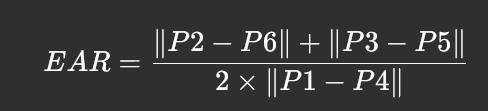
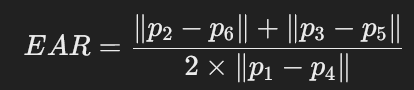
changed some logic

Changed region(s): [[0.058, 0.1556, 0.9855, 0.9111]]

diff --git a/code/frt.py b/code/frt.py
@@ -4,6 +4,10 @@ from deepfake_detection import (
     analyze_reflections,
     FACE_CENTER_LANDMARK
 )
+from blink_detection import (
+    check_double_blink,
+    check_eye_movement_during_blink,
+)
 import cv2
 import dlib
 import numpy as np
@@ -17,8 +21,6 @@ def main(demo_mode=False, security_mode=False):
     BASELINE_FRAMES = 30
     SMOOTHING_WINDOW = 2
     BLINK_COOLDOWN = 1
-    DOUBLE_BLINK_THRESHOLD = 0.8
-
 
     blink_count = 0
     blink_active = False
@@ -28,13 +30,11 @@ def main(demo_mode=False, security_mode=False):
     cooldown_counter = 0
     blink_timestamps = []
 
-
     def calculate_ear(eye):
         A = distance.euclidean(eye[1], eye[5])
         B = distance.euclidean(eye[2], eye[4])
         C = distance.euclidean(eye[0], eye[3])
         return (A + B) / (2.0 * C)
-
 
     # I won't be using fixed ear_threshold, because otherwise it would not be robust to individual differences in
     # eye shape and size. Instead, I'll be calculating dynamic threshold.
@@ -51,7 +51,6 @@ def main(demo_mode=False, security_mode=False):
             frame_count += 1
         return baseline_ear
 
-
     # smoothing is necessary because EAR calculation can be noisy due to
     # small variations in facial landmarks.
     def smooth_ear(ear):
@@ -59,7 +58,6 @@ def main(demo_mode=False, security_mode=False):
         if len(ear_history) > SMOOTHING_WINDOW:
             ear_history.pop(0)
         return np.mean(ear_history)
-
 
     detector = dlib.get_frontal_face_detector()
     shape_predictor = dlib.shape_predictor("../dat/shape_predictor_68_face_landmarks.dat")
@@ -97,8 +95,8 @@ def main(demo_mode=False, security_mode=False):
             avg_ear = smooth_ear((left_ear + right_ear) / 2.0)
             print(f"[METRICS] Frame {frame_count} - Left EAR: {left_ear:.4f}, Right EAR: {right_ear:.4f}, Avg: {avg_ear:.4f}")
 
-            left_eye_movement = check_eye_movement(left_eye, face_center, blink_active)
-            right_eye_movement = check_eye_movement(right_eye, face_center, blink_active)
+            left_eye_movement = check_eye_movement_during_blink(left_eye, face_center, blink_active, check_eye_movement)
+            right_eye_movement = check_eye_movement_during_blink(right_eye, face_center, blink_active, check_eye_movement)
 
             if frame_count < BASELINE_FRAMES:
                 baseline_ear = calculate_baseline_ear(avg_ear)
@@ -109,25 +107,18 @@ def main(demo_mode=False, security_mode=False):
                         blink_active = True
                         blink_timestamps.append(time.time())
                         print(f"[BLINK] Blink started at {time.strftime('%H:%M:%S')}")
-                else:
-                    if blink_active:
-                        duration = time.time() - blink_timestamps[-1]
-                        blink_count += 1
-                        blink_active = False
-                        cooldown_counter = BLINK_COOLDOWN
-                        print(f"[BLINK] Blink completed (duration: {duration:.2f}s, total: {blink_count})")
+                elif avg_ear >= dynamic_threshold and blink_active:
+                    blink_active = False
+                    blink_count += 1
+                    cooldown_counter = BLINK_COOLDOWN
+                    duration = time.time() - blink_timestamps[-1]
+                    print(f"[BLINK] Blink completed (duration: {duration:.2f}s, total: {blink_count})")
 
-            # double blink
-            if len(blink_timestamps) >= 2:
-                time_diff = blink_timestamps[-1] - blink_timestamps[-2]
-                if 0.3 <= time_diff <= DOUBLE_BLINK_THRESHOLD:
-                    print(f"[BLINK] Double blink detected! Interval: {time_diff:.2f}s")
+                if check_double_blink(blink_timestamps):
+                    print(f"[BLINK] Double blink detected!")
                     blink_timestamps.clear()
-                    # reset state
                     blink_active = False
                     cooldown_counter = BLINK_COOLDOWN
-                    print("[BLINK] Reset blink state after double blink detection")
-                    blink_timestamps.clear()
 
             left_eye_np = np.array(left_eye)
             right_eye_np = np.array(right_eye)

diff --git a/code/blink_detection.py b/code/blink_detection.py
@@ -1,0 +1,37 @@
+import numpy as np
+import time
+
+DOUBLE_BLINK_THRESHOLD = 0.8
+
+
+def calculate_dynamic_blink_threshold(blink_timestamps):
+    if len(blink_timestamps) < 2:
+        return DOUBLE_BLINK_THRESHOLD
+
+    time_diffs = np.diff(blink_timestamps)
+    avg_blink_interval = np.mean(time_diffs)
+    dynamic_threshold = avg_blink_interval * 1.5
+    return max(DOUBLE_BLINK_THRESHOLD, dynamic_threshold)
+
+
+def check_double_blink(blink_timestamps):
+    if len(blink_timestamps) < 2:
+        return False
+
+    time_diff = blink_timestamps[-1] - blink_timestamps[-2]
+    dynamic_threshold = calculate_dynamic_blink_threshold(blink_timestamps)
+
+    if 0.3 <= time_diff <= dynamic_threshold:
+        print(f"[BLINK] Double blink detected! Interval: {time_diff:.2f}s")
+        return True
+    return False
+
+
+def check_eye_movement_during_blink(eye_landmarks, face_center, is_blinking=False, check_eye_movement=None):
+    if is_blinking:
+        return False  # skip during the blink
+
+    if check_eye_movement is None:
+        raise ValueError("check_eye_movement function must be provided")
+
+    return check_eye_movement(eye_landmarks, face_center, is_blinking)

diff --git a/README.md b/README.md
@@ -1,6 +1,6 @@
 # Blink Detection Using Eye Aspect Ratio (EAR)
 
-This project implements a blink detection system using the Eye Aspect Ratio (EAR) and a dynamic threshold based on a baseline EAR. The system is designed to be robust to individual differences in eye shape and size, using facial landmarks to detect blinks in real time.
+This project implements a robust blink detection system using the Eye Aspect Ratio (EAR) with a dynamic threshold based on a baseline EAR. The system is designed to adapt to individual differences in eye shape and size while also incorporating additional checks to detect deepfake artifacts.
 
 ## Table of Contents
 
@@ -13,128 +13,108 @@ This project implements a blink detection system using the Eye Aspect Ratio (EAR
   - [Eye Movement Detection](#eye-movement-detection)
   - [EAR Consistency Check](#ear-consistency-check)
   - [Reflection Analysis](#reflection-analysis)
+  - [Double Blink Detection](#double-blink-detection)
+- [Used Formulas](#used-formulas)
 - [Code Overview](#code-overview)
 - [Key Variables](#key-variables)
 - [Usage](#usage)
 - [Dependencies](#dependencies)
+- [Changelog](#changelog)
 
 ## How It Works
 
 ### Eye Aspect Ratio (EAR)
+The EAR is a metric used to determine whether the eyes are open or closed. It is calculated as:
 
-The EAR is a metric used to determine whether the eyes are open or closed. It is calculated using the vertical and horizontal distances between specific facial landmarks around the eyes.
-
-Formula:
 
 ![img.png](img.png)
 
-Where:
 
-- \( P1, P2, P3, P4, P5, P6 \) are the facial landmarks around the eye.
-- \( \|A - B\| \) represents the Euclidean distance between two points.
-
-The EAR is calculated for both the left and right eyes, and the average EAR is used for blink detection.
+where `p1` to `p6` are the eye landmark points.
 
 ### Baseline EAR
-
-The baseline EAR represents the average EAR when the eyes are open and not blinking. It is calculated during the first `BASELINE_FRAMES` (e.g., 30 frames).
-
-![img_1.png](img_1.png)
-
-This running average smooths out small variations and establishes a reliable baseline EAR.
+To account for individual differences in eye structure, the system calculates an initial baseline EAR over the first few frames. The EAR value is updated dynamically to create a more adaptive system.
 
 ### Dynamic Threshold
-
-The dynamic threshold determines whether a blink has occurred. It is calculated as a percentage of the baseline EAR:
-
-![img_2.png](img_2.png)
-
-If the average EAR drops below 85% of the baseline EAR, a blink is detected.
+Rather than using a fixed threshold, the system determines a dynamic threshold based on the baseline EAR. A blink is detected when the EAR value drops below 75% of the baseline.
 
 ### Smoothing EAR Values
-
-The EAR values can fluctuate due to small facial movements. To mitigate noise, the EAR values are smoothed over a small window of frames.
-
-Smoothing formula:
-
-![img_3.png](img_3.png)
-
-Where `EAR_history` is a list containing the last few EAR values.
+Since facial landmark detection can introduce noise, the EAR values are smoothed using a small moving average window.
 
 ### Cooldown Period
-
-A cooldown period prevents multiple detections for a single blink. After detecting a blink, the system waits for a short period before registering another blink.
+To prevent false positive blinks from being registered in quick succession, a cooldown period is implemented. After detecting a blink, the system enforces a short delay before allowing another blink to be counted.
 
 ### Eye Movement Detection
-
-To account for eye movements, we track the center of the eye over time. The eye movement detection method calculates the variance in eye position over recent frames:
-
-![img_4.png](img_4.png)
-
-If the normalized variance exceeds a threshold (e.g., 0.15), significant movement is detected.
+Using eye landmarks and the nose landmark as a reference, the system tracks eye movements across frames. If unusual eye movement patterns are detected, the system flags it as a potential anomaly.
 
 ### EAR Consistency Check
-
-A consistency check ensures that sudden, irregular EAR changes do not lead to false positives. It compares differences between recent EAR values:
-
-![img_5.png](img_5.png)
-
-If the largest EAR change exceeds a predefined threshold (e.g., 0.15), a blink is flagged.
+An abrupt change in EAR values during a blink is considered suspicious. The system monitors the rate of change and flags unnatural shifts in EAR.
 
 ### Reflection Analysis
+Deepfake videos often struggle with realistic eye reflections. The system extracts the eye region and analyzes light reflections. If no reflections are detected, the system raises an alert.
 
-To check for potential obstructions (e.g., glare or reflections), the eye region is processed with thresholding:
+### Double Blink Detection
+A double blink is detected when two consecutive blinks occur within a dynamically calculated time window. This helps detect natural human behavior and adds another layer of analysis.
 
-![img_6.png](img_6.png)
+## Used Formulas
 
-If reflections are minimal, the detection remains valid.
+### Moving Average Smoothing
+![img_3.png](img_3.png)
+
+### Dynamic Blink Threshold
+![img_2.png](img_2.png)
+
+### EAR Change Detection
+![img_1.png](img_1.png)
 
 ## Code Overview
 
-The code consists of the following key components:
-
-- **EAR Calculation:** `calculate_ear` computes the EAR for a given eye.
-- **Baseline EAR Calculation:** `calculate_baseline_ear` establishes the baseline EAR over the first 30 frames.
-- **Smoothing:** `smooth_ear` averages the last few EAR values to reduce noise.
-- **Blink Detection:** The main loop captures video frames, detects faces, calculates the EAR, and checks against the dynamic threshold.
-- **Eye Movement Detection:** `check_eye_movement` tracks eye position history and detects significant movement.
-- **EAR Consistency Check:** `check_ear_consistency` prevents erratic EAR changes from falsely triggering blinks.
-- **Reflection Analysis:** `analyze_reflections` checks for excessive light reflections in the eye region.
-- **Display:** The system overlays the EAR values, blink count, baseline EAR, and dynamic threshold on the video feed.
+- The system captures video frames using OpenCV and detects faces using `dlib`.
+- Facial landmarks are extracted and used to calculate the EAR.
+- Blinks are detected based on dynamic thresholds.
+- Additional deepfake detection checks are performed.
+- The user interface overlays real-time feedback on the video.
 
 ## Key Variables
 
-- `baseline_ear`: The average EAR when the eyes are open.
-- `dynamic_threshold`: 85% of the baseline EAR, used to detect blinks.
-- `ear_history`: A list of the last 3 EAR values for smoothing.
-- `cooldown_counter`: Prevents multiple detections for a single blink.
-- `eye_position_history`: Tracks recent eye positions to monitor movement.
-- `EYE_MOVEMENT_THRESHOLD`: Defines the threshold for significant eye movement.
-- `ear_history_blink`: Stores recent EAR values for consistency checks.
-- `EAR_CHANGE_THRESHOLD`: Defines the threshold for EAR consistency validation.
+| Variable               | Description |
+|------------------------|-------------|
+| `BASELINE_FRAMES`      | Number of frames to compute the initial EAR baseline |
+| `BLINK_COOLDOWN`       | Time before another blink can be counted |
+| `SMOOTHING_WINDOW`     | Number of frames used to smooth EAR values |
+| `EAR_CHANGE_THRESHOLD` | Threshold for detecting abrupt EAR changes |
+| `VAR_THRESHOLD`        | Threshold for detecting unnatural eye movements |
+| `DOUBLE_BLINK_THRESHOLD` | Max time difference between two blinks for a double blink detection |
+| `REFLECTION_THRESHOLD`  | Minimum brightness level for valid eye reflections |
 
 ## Usage
 
-1. Install the required dependencies:
-
-```bash
-pip install opencv-python dlib scipy numpy
-```
-
-2. Download the `shape_predictor_68_face_landmarks.dat` file from dlib's website and place it in the project directory.
-
-3. Run the script:
-
-```bash
-python blink_detection.py
-```
-
-4. Follow the on-screen instructions to calculate the baseline EAR and start detecting blinks.
+1. Install dependencies using:
+   ```
+   pip install -r requirements.txt
+   ```
+2. Run the script:
+   ```
+   python blink_detection.py
+   ```
+3. Look at the camera while the system calculates the baseline EAR.
+4. The system will detect blinks and analyze eye behavior in real-time.
+5. Press `q` to exit the application.
 
 ## Dependencies
 
-- `opencv-python`: For video capture and frame processing.
-- `dlib`: For face detection and facial landmark detection.
-- `scipy`: For distance calculations.
-- `numpy`: For numerical operations and EAR smoothing.
+- `OpenCV`
+- `dlib`
+- `numpy`
+- `scipy`
+
+## Changelog
+
+### v1.1
+- Added `REFLECTION_THRESHOLD` for improved deepfake detection
+- Optimized EAR smoothing algorithm
+- Improved cooldown logic for more reliable blink detection
+
+### v1.0
+- Initial release with EAR-based blink detection and anomaly detection features
 
